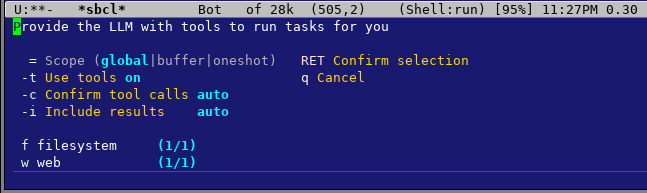
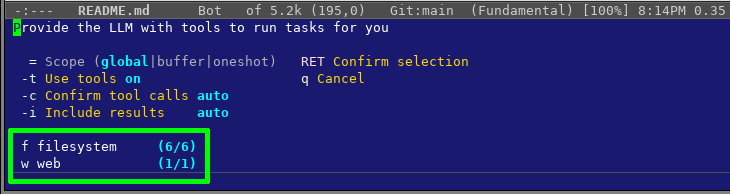
Restricted project workspace tools included

diff --git a/README.md b/README.md
@@ -8,16 +8,23 @@
 
 ### Brief
 
-Web search & file tools for gptel.
+Web search & file tools for gptel. It now includes workspace handling
+for projects.
 
 ### Goals
 
 - Provide a simple alternative to MCP-based `search_web`.
 - Use DuckDuckGo through the local `ddgr` (GPLv3) command to search the
   Internet.
-- Keep the setup simple, lightweight, reliable, and easy to debug.
 - Restricted file creation tool for gptel. Saves generated UTF-8 files
   to a designated output directory.
+- Restricted project workspace tools. Projects copies can be placed
+  under a dedicated workspace directory.
+- Keep the setup simple, lightweight, reliable, and easy to debug.
+
+## Main policy
+
+Avoid unnecessary features.
 
 ## Prerequisites
 
@@ -25,6 +32,7 @@ Web search & file tools for gptel.
 - Internet connection.
 - `ddgr` installed.
 - `gptel` installed from MELPA (recommended latest version).
+- `cl-lib` standard with Emacs Lisp.
 
 ## Install ddgr (example: Devuan/Debian)
 
@@ -125,22 +133,27 @@ Then add the following near the end of your `init.el` (or `.emacs`):
 (load "~/src/e/gptel-web/gptel-web.el")
 ```
 
-Optionally, you can add the following module that saves files in the
-folder `output/` inside the path `vc/gptel-root-path` defined in the
-Elisp code above. It isn't mandatory. If, for security reasons, you
-don't want to allow the agent to write files in a contained output
-directory, you don't need to include it. Add the following near the end
-of your `init.el` (or `.emacs`):
+Optionally, you can add the following modules: gptel-file pew files in
+the directory `output/` and gptel-project messes inside the `workspace/`
+directory, capable of handling hierarchical directories and files
+there. These directories depend on `vc/gptel-root-path` defined in the
+Elisp code above. These aren't mandatory if you just want to add
+browsing capability, and you are paranoid about security. But in
+general, the following modules are contained (jailed) inside their
+respective directories. You can inspect the code yourself. They are tiny
+for easy understanding. Add the following near the end of your `init.el`
+(or `.emacs`) if you wanna use them:
 
 ```elisp
 (load "~/src/e/gptel-web/gptel-file.el")
+(load "~/src/e/gptel-web/gptel-project.el")
 ```
 
 Restart Emacs or evaluate the configuration.
 
-**Note:** Verify if `vc/gptel-root-path` & `vc/gptel-root-path/output/`
-  are created. For this example, we set `vc/gptel-root-path` to
-  `~/src/g/gptel`.
+**Note:** Verify if `vc/gptel-root-path`, `vc/gptel-root-path/output/` &
+`vc/gptel-root-path/workspace/` are created. For this example, we set
+`vc/gptel-root-path` to `~/src/g/gptel`.
 
 ## Verify installation
 
@@ -151,8 +164,10 @@ M-x gptel-tools
 ```
 
 You should see the `web` category containing the `search_web`
-tool. Optionally, if you enabled gptel-file, you'll see the `filesystem`
-category containing the `create_file` tool as well.
+tool. Optionally, if you enabled gptel-file and gptel-project, you'll
+see the `filesystem` category containing the `create_file`,
+`list_project_files`, `read_project_file`, `update_project_file`,
+`create_project_directory`, and `create_project_file` tools as well.
 
 ![Alt gptel-tools](img/gptel-tools.png)
 
